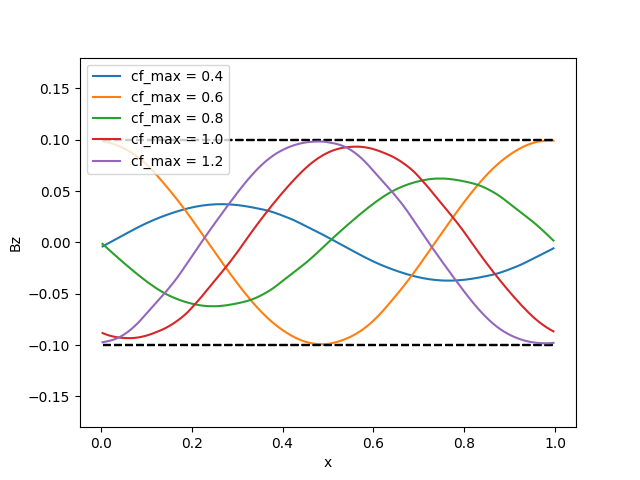
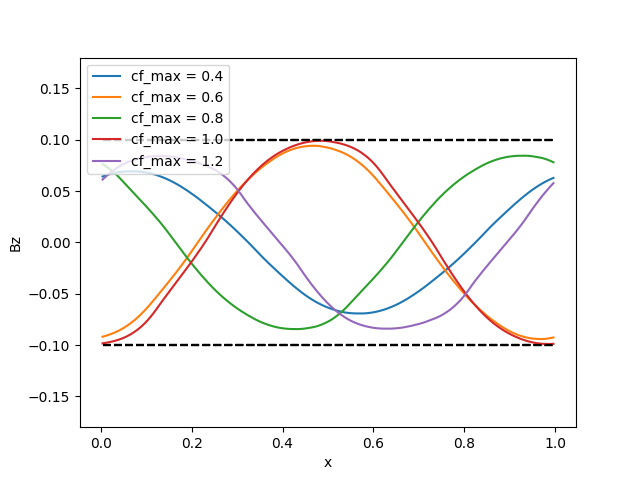
run for longer

diff --git a/mhd-boris.py b/mhd-boris.py
@@ -987,7 +987,7 @@ def main():
         rho = np.ones(X.shape)
         P = 0.2 * 0.1 * np.ones(X.shape)  # init. gas pressure
         amp = 0.1
-        t_end = 2.0
+        t_end = 5.0
 
         # angled ICs
         # alpha = np.pi / 4.0
@@ -1170,7 +1170,7 @@ def main():
                 # plt.imshow(Bz.T, cmap="jet")
                 # plt.clim(-0.1, 0.1)
                 plt.plot(Bz[:, N // 2])
-                plt.ylim(-2.0*amp, 2.0*amp)
+                plt.ylim(-2.0 * amp, 2.0 * amp)
             elif prob_id == 3:
                 plt.imshow(np.sqrt(bx**2 + by**2).T, cmap="jet")
                 plt.clim(0.0, 0.0011)

diff --git a/analysis.py b/analysis.py
@@ -31,9 +31,7 @@ def main():
             Bz[c_limit] = np.load(
                 "output/" + prefix + "data_Bz_" + str(c_limit) + ".npy"
             )
-            v[c_limit] = np.load(
-                "output/" + prefix + "data_v_" + str(c_limit) + ".npy"
-            )
+            v[c_limit] = np.load("output/" + prefix + "data_v_" + str(c_limit) + ".npy")
             ca[c_limit] = np.load(
                 "output/" + prefix + "data_ca_" + str(c_limit) + ".npy"
             )
